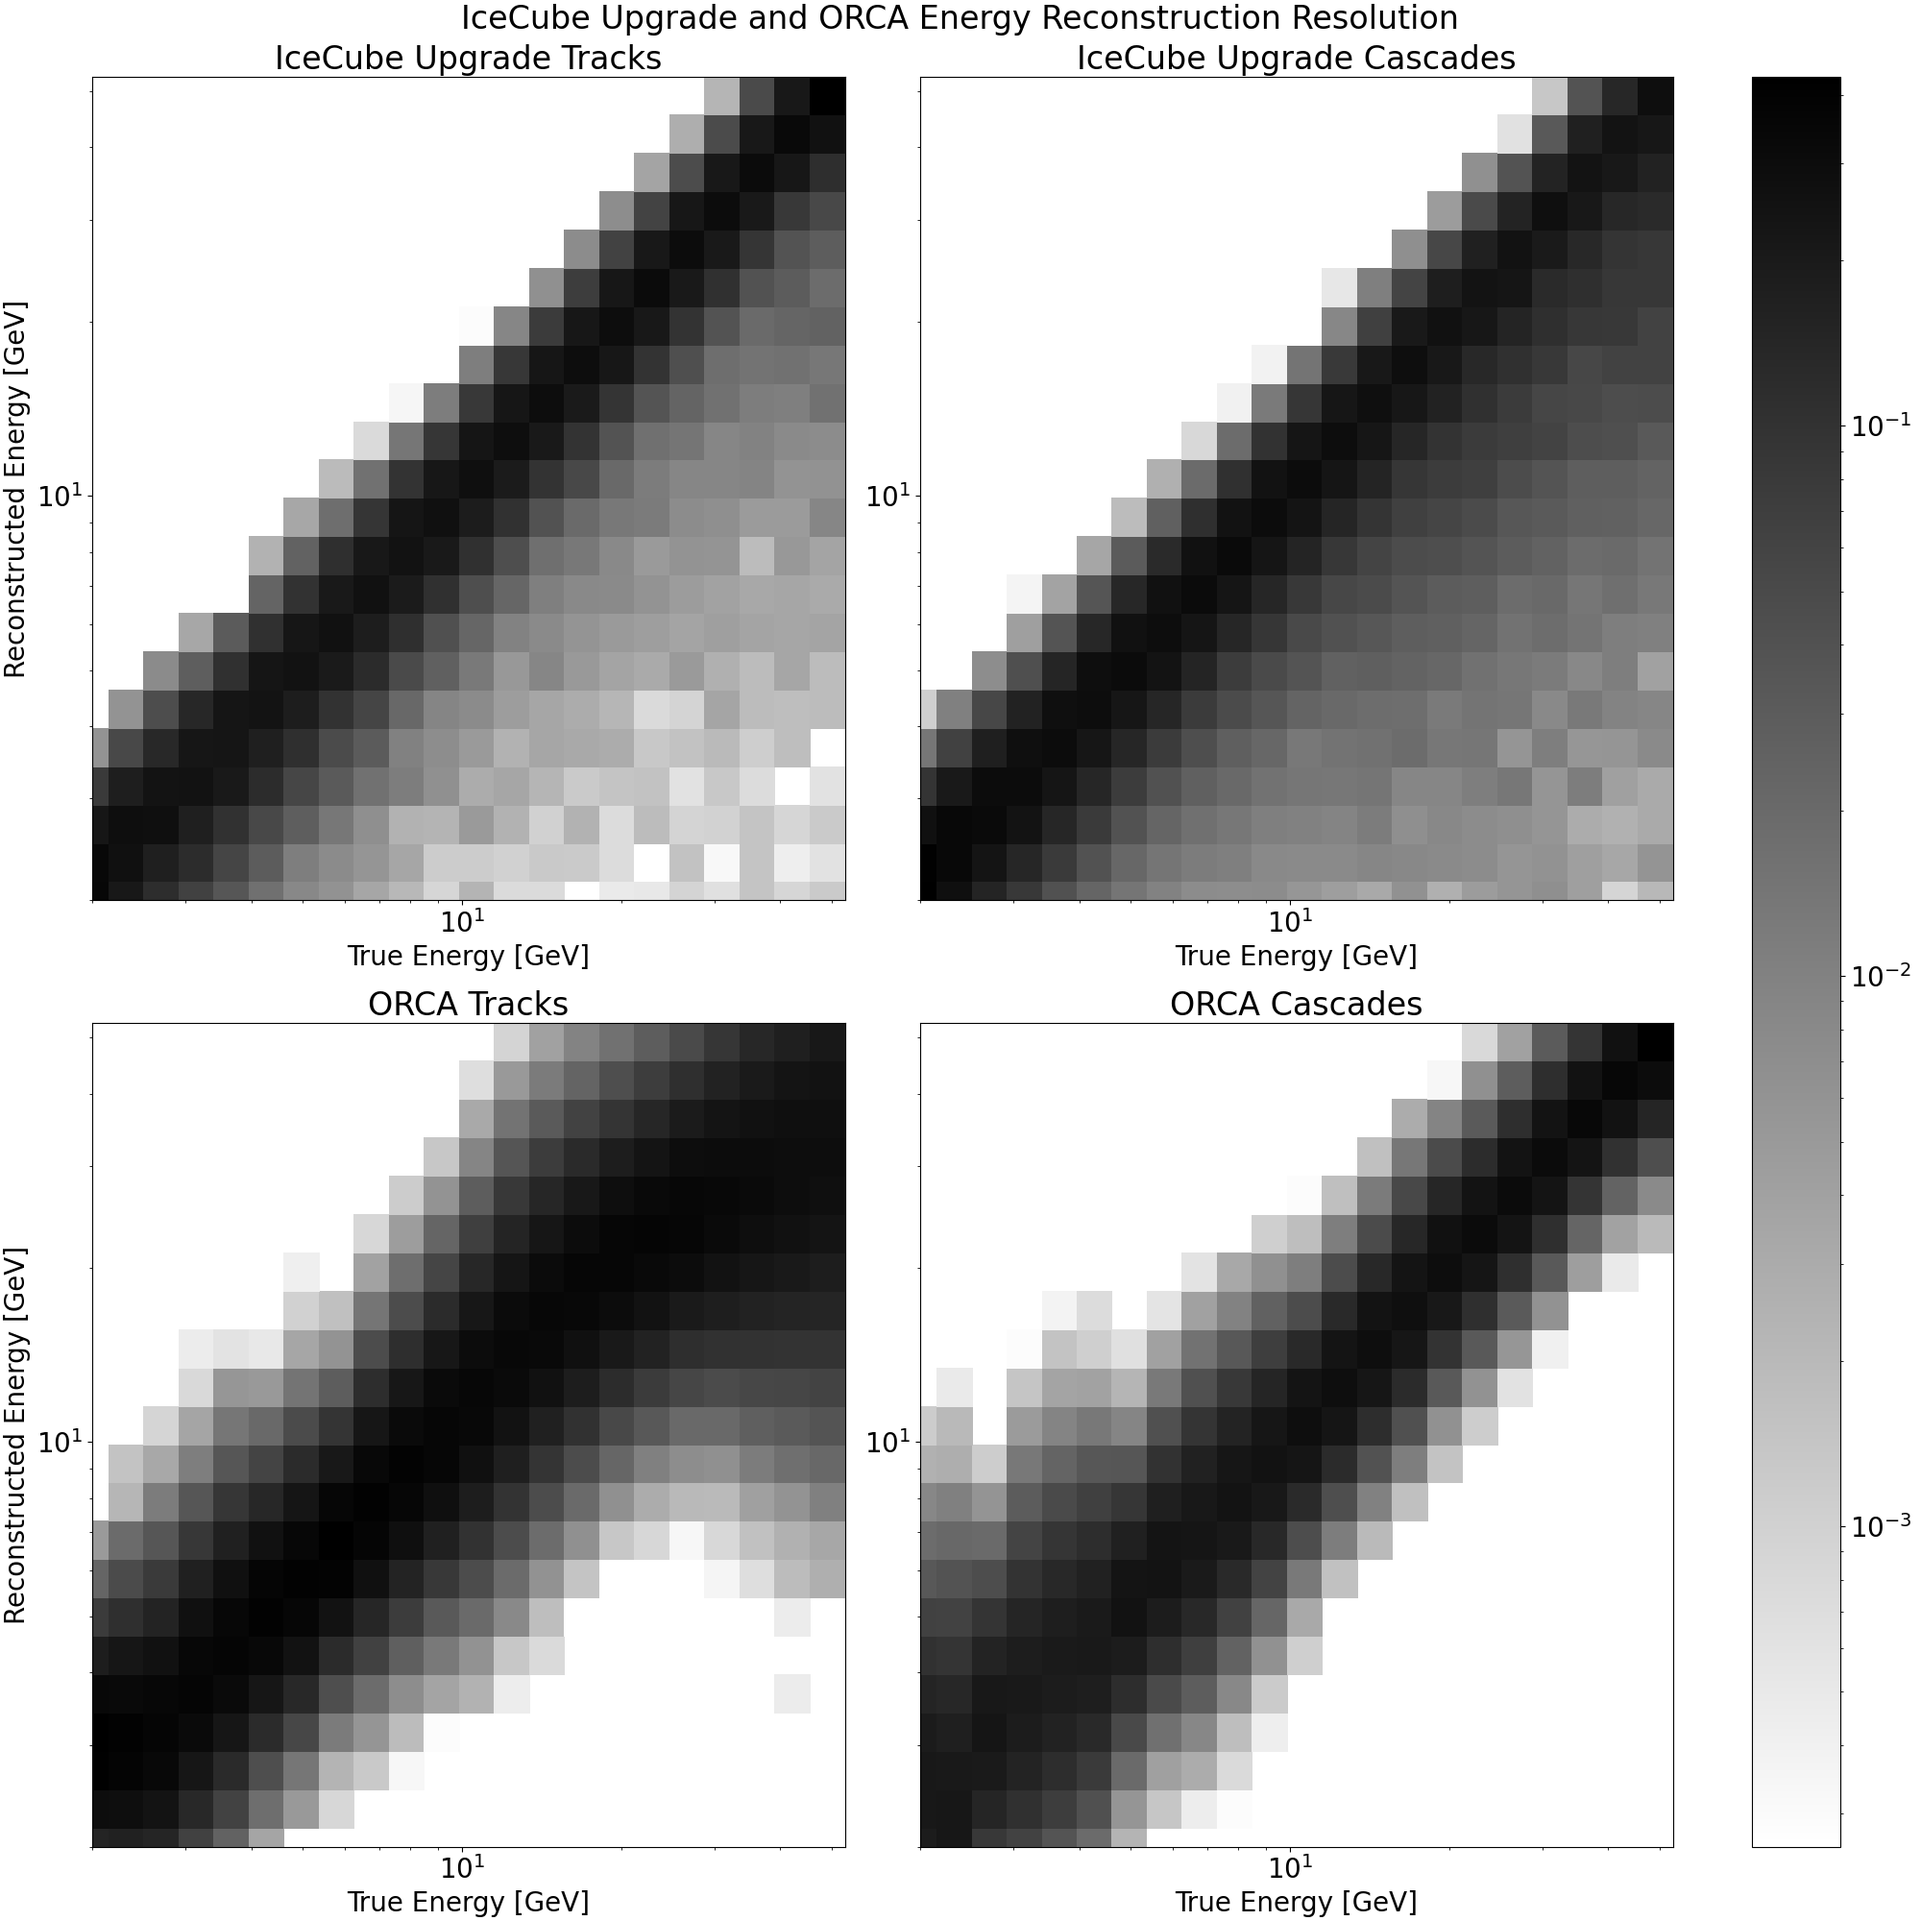
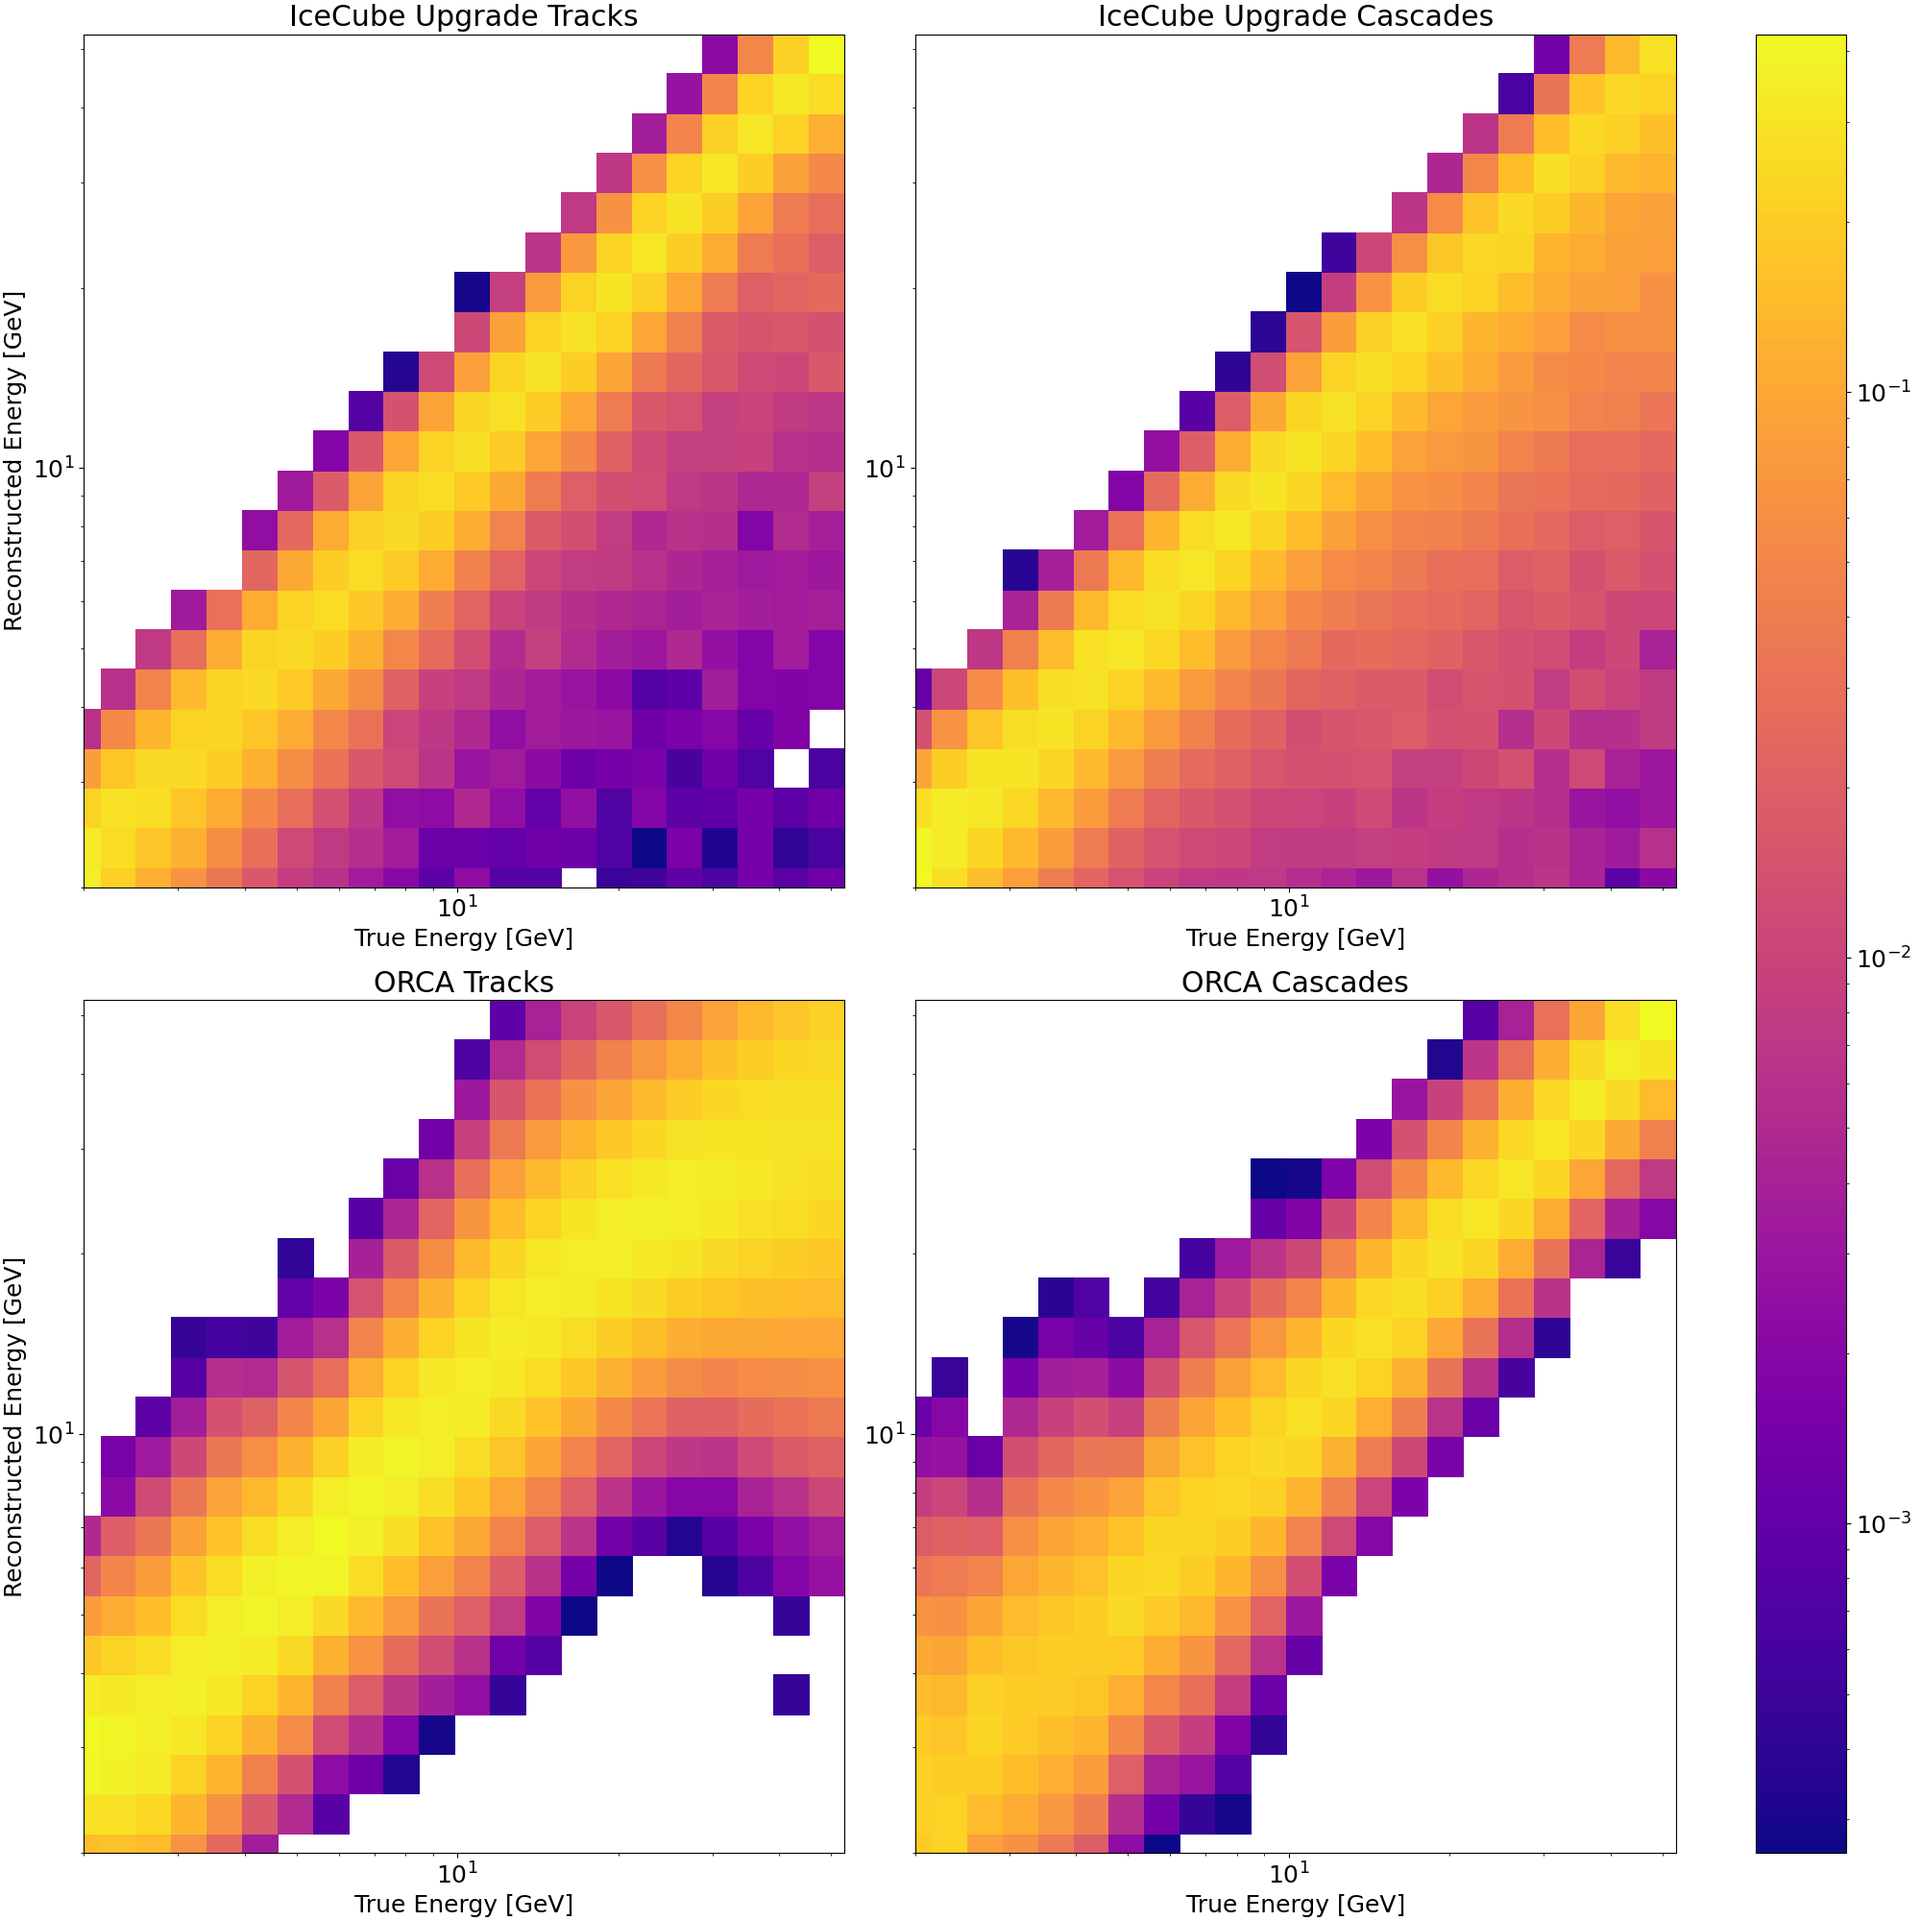
new plotting code

diff --git a/sources/ORCA/paper.py b/sources/ORCA/paper.py
@@ -14,7 +14,8 @@ from util import twogaussian
 from params import *
 import NewEffective as eff
 
-matplotlib.rcParams.update({'font.size': 20})
+# matplotlib.rcParams.update({'font.size': 18})
+plt.style.use('./paper.mplstyle')
 
 ORCA = pd.read_csv("15x_with_interm.csv")
 IC = pd.read_csv("neutrino_mc.csv")
@@ -81,8 +82,8 @@ def energy_resolution():
     ax1.title.set_text("IceCube Upgrade Tracks")
     ax2 = axes[0][1]
     ax2.title.set_text("IceCube Upgrade Cascades")
-    im1 = ax1.pcolor(X, Y, ICtZ.T, cmap = "gray_r", norm = LogNorm())
-    im2 = ax2.pcolor(X, Y, ICcZ.T, cmap = "gray_r", norm = LogNorm())
+    im1 = ax1.pcolor(X, Y, ICtZ.T, cmap = "plasma", norm = LogNorm())
+    im2 = ax2.pcolor(X, Y, ICcZ.T, cmap = "plasma", norm = LogNorm())
     ax1.set_xlim(2, 53)
     ax1.set_xlabel("True Energy [GeV]")
     ax1.set_ylim(2, 53)
@@ -99,8 +100,8 @@ def energy_resolution():
     ax3.title.set_text("ORCA Tracks")
     ax4 = axes[1][1]
     ax4.title.set_text("ORCA Cascades")
-    im3 = ax3.pcolor(X, Y, ORCAtZ.T, cmap = "gray_r", norm = LogNorm())
-    im4 = ax4.pcolor(X, Y, ORCAcZ.T, cmap = "gray_r", norm = LogNorm())
+    im3 = ax3.pcolor(X, Y, ORCAtZ.T, cmap = "plasma", norm = LogNorm())
+    im4 = ax4.pcolor(X, Y, ORCAcZ.T, cmap = "plasma", norm = LogNorm())
     ax3.set_xlim(2, 53)
     ax3.set_xlabel("True Energy [GeV]")
     ax3.set_ylim(2, 53)
@@ -113,7 +114,7 @@ def energy_resolution():
     ax4.set_xscale("log")
     ax4.set_yscale("log")
 
-    fig.suptitle("IceCube Upgrade and ORCA Energy Reconstruction Resolution")
+    # fig.suptitle("IceCube Upgrade and ORCA Energy Reconstruction Resolution")
     fig.colorbar(im1, ax=axes.ravel().tolist(), orientation = "vertical", format = LogFormatterMathtext())
 
     # plt.constrained_layout()
@@ -123,14 +124,14 @@ def energy_resolution():
     plt.savefig("./new_paper_plots/Energy_Resolution_new.png")
     plt.close()
 
-energy_resolution()
+# energy_resolution()
 
 def zenith_resolution():
     x = np.linspace(-1, 1, 20)
     y = np.linspace(-1, 1, 20)
     X, Y = np.meshgrid(x, y)
     Z, xedges, yedges = np.histogram2d(np.cos(ORCA["true_zenith"]), np.cos(ORCA["reco_zenith"]), bins=(x, y))
-    im = plt.pcolor(X, Y, Z.T, cmap = "gray_r", norm = LogNorm())
+    im = plt.pcolor(X, Y, Z.T, cmap = "plasma", norm = LogNorm())
     plt.xlim(-1, 1)
     plt.ylim(-1, 1)
     plt.xlabel("Cosine True Zenith")
@@ -139,7 +140,7 @@ def zenith_resolution():
     plt.savefig("./new_paper_plots/Zenith_Resolution.png")
     plt.close()
 
-zenith_resolution()
+# zenith_resolution()
 
 def range_zenith_resolution():
     zen_true = ORCA["true_zenith"]
@@ -161,11 +162,11 @@ def range_zenith_resolution():
     Z1 = rangezen(1, 5)
     Z2 = rangezen(5, 10)
     Z3 = rangezen(10, 50)
-    fig, axes = plt.subplots(nrows = 3, ncols = 1, figsize = (13, 35), constrained_layout = True)
+    fig, axes = plt.subplots(nrows = 1, ncols = 3, figsize = (35, 13), constrained_layout = True)
     ax1, ax2, ax3 = axes[0], axes[1], axes[2]
-    im1 = ax1.pcolor(X, Y, Z1.T, cmap = "gray_r", norm = LogNorm())
-    im2 = ax2.pcolor(X, Y, Z2.T, cmap = "gray_r", norm = LogNorm())
-    im3 = ax3.pcolor(X, Y, Z3.T, cmap = "gray_r", norm = LogNorm())
+    im1 = ax1.pcolor(X, Y, Z1.T, cmap = "plasma", norm = LogNorm())
+    im2 = ax2.pcolor(X, Y, Z2.T, cmap = "plasma", norm = LogNorm())
+    im3 = ax3.pcolor(X, Y, Z3.T, cmap = "plasma", norm = LogNorm())
     ax1.set_xlim(-1, 1)
     ax2.set_xlim(-1, 1)
     ax3.set_xlim(-1, 1)
@@ -181,7 +182,7 @@ def range_zenith_resolution():
     # plt.show()
     plt.savefig("./new_paper_plots/Ranged_Zenith_Resolution.png")
 
-range_zenith_resolution()
+# range_zenith_resolution()
 
 
 
@@ -193,7 +194,7 @@ def effective_volumes():
     ORCA = eff.ORCAEffectiveAnalysis(num_bins = 20)
     IC.compute()
     ORCA.compute()
-    fig, axes = plt.subplots(nrows = 2, ncols = 1, figsize = (10, 25))
+    fig, axes = plt.subplots(nrows = 1, ncols = 2, figsize = (25, 10))
     ax1, ax2 = axes[0], axes[1]
 
     # first plot IC
@@ -248,7 +249,7 @@ def effective_volumes():
     ax2.legend(loc = 2)
     ax2.title.set_text("ORCA")
 
-    fig.suptitle("IceCube Upgrade DeepCore and ORCA Effective Volumes")
+    # fig.suptitle("IceCube Upgrade DeepCore and ORCA Effective Volumes")
     # plt.show()
     plt.savefig("./new_paper_plots/Effective_Volumes.png")
     plt.close()

diff --git a/sources/NewAnalysis/paper.py b/sources/NewAnalysis/paper.py
@@ -84,7 +84,7 @@ def true_event_distribution():
 	fig.savefig("./../ORCA/new_paper_plots/Event_Distribution_True.png")
 	plt.close()
 
-true_event_distribution()
+# true_event_distribution()
 
 
 # plot the reco distribution of tracks and cascades
@@ -115,9 +115,9 @@ def reco_event_distribution():
 
 
 
-	fig, axes = plt.subplots(nrows = 2, ncols = 1, figsize=(10,20))
+	fig, axes = plt.subplots(nrows = 1, ncols = 2, figsize=(20,10))
 	ax1, ax2 = axes[0], axes[1]
-	fig.suptitle("ORCA MC Event Distributions")
+	# fig.suptitle("ORCA MC Event Distributions")
 
 	ax2.hist(zen_bins[:-1], zen_bins, weights = zencascade / zen_bin_widths,\
 					 label="ORCA cascade", histtype="step")
@@ -129,7 +129,7 @@ def reco_event_distribution():
 	ax2.set_xlim(-1, 0)
 	ax2.set_ylabel("Total Event Count [3yrs]")
 	# ax.grid(True)
-	ax2.legend()
+	ax2.legend(loc = 2)
 	ax2.title.set_text("Reconstructed Cosine Zenith Distribution")
 	ax1.title.set_text("Reconstructed Energy Distribution")
 
@@ -139,7 +139,7 @@ def reco_event_distribution():
 					 label="ORCA track", histtype="step")
 	ax1.set_xscale("log")
 	ax1.set_yscale("log")
-	ax1.set_ylim(2 * 10 ** 2, 6 * 10 ** 4)
+	ax1.set_ylim(2 * 10 ** 2, 2 * 10 ** 4)
 	ax1.set_xlabel("Neutrino Reconstructed Energy [GeV]")
 	ax1.set_xlim(1.85, 50)
 	ax1.set_ylabel("Total Event Count [3yrs]")
@@ -213,7 +213,7 @@ def true_event_distribution_zen():
 	fig.savefig("./../ORCA/new_paper_plots/Event_Distribution_True_w_zenith.png")
 	plt.close()
 
-true_event_distribution_zen()
+# true_event_distribution_zen()
 
 
 # plot the reco distribution of tracks and cascades
@@ -278,4 +278,4 @@ def reco_event_distribution_zen():
 	fig.savefig("./../ORCA/new_paper_plots/Event_Distribution_Reco_w_zenith.png")
 	plt.close()
 
-reco_event_distribution_zen()
+# reco_event_distribution_zen()

diff --git a/sources/ORCA/util.py b/sources/ORCA/util.py
@@ -1,5 +1,6 @@
 import numpy as np
 import matplotlib.pyplot as plt
+from scipy import interpolate
 from scipy.optimize import curve_fit
 from scipy.interpolate import interp1d
 import pandas as pd
@@ -457,6 +458,30 @@ def test_rot_graphic(zen, azim, err, num):
 
 
 
+def ORCA_paper_sensitivity():
+	data = pd.read_csv("./ORCA_Results/ORCA_sensitivity.csv", header = None, usecols = [0, 1])
+	# print(data[0])
+	# print(data[1])
+	x = np.array(data[0])
+	y = np.array(data[1])
+	# print(x)
+	# fit splines to x=f(u) and y=g(u), treating both as periodic. also note that s=0
+	# is needed in order to force the spline fit to pass through all the input points.
+	tck, u = interpolate.splprep([x, y], s=0, k=2, per=True)
+
+	# evaluate the spline fits for 1000 evenly spaced distance values
+	xi, yi = interpolate.splev(np.linspace(0, 1, 1000), tck)
+
+	# plot the result
+	fig, ax = plt.subplots(1, 1)
+	# ax.plot(x, y, 'or')
+	ax.plot(xi, yi, '-b')
+
+	# plt.show()
+	plt.savefig("./ORCA_Results/ORCA_paper_sensitivity")
+
+
+ORCA_paper_sensitivity()
 
 
 
